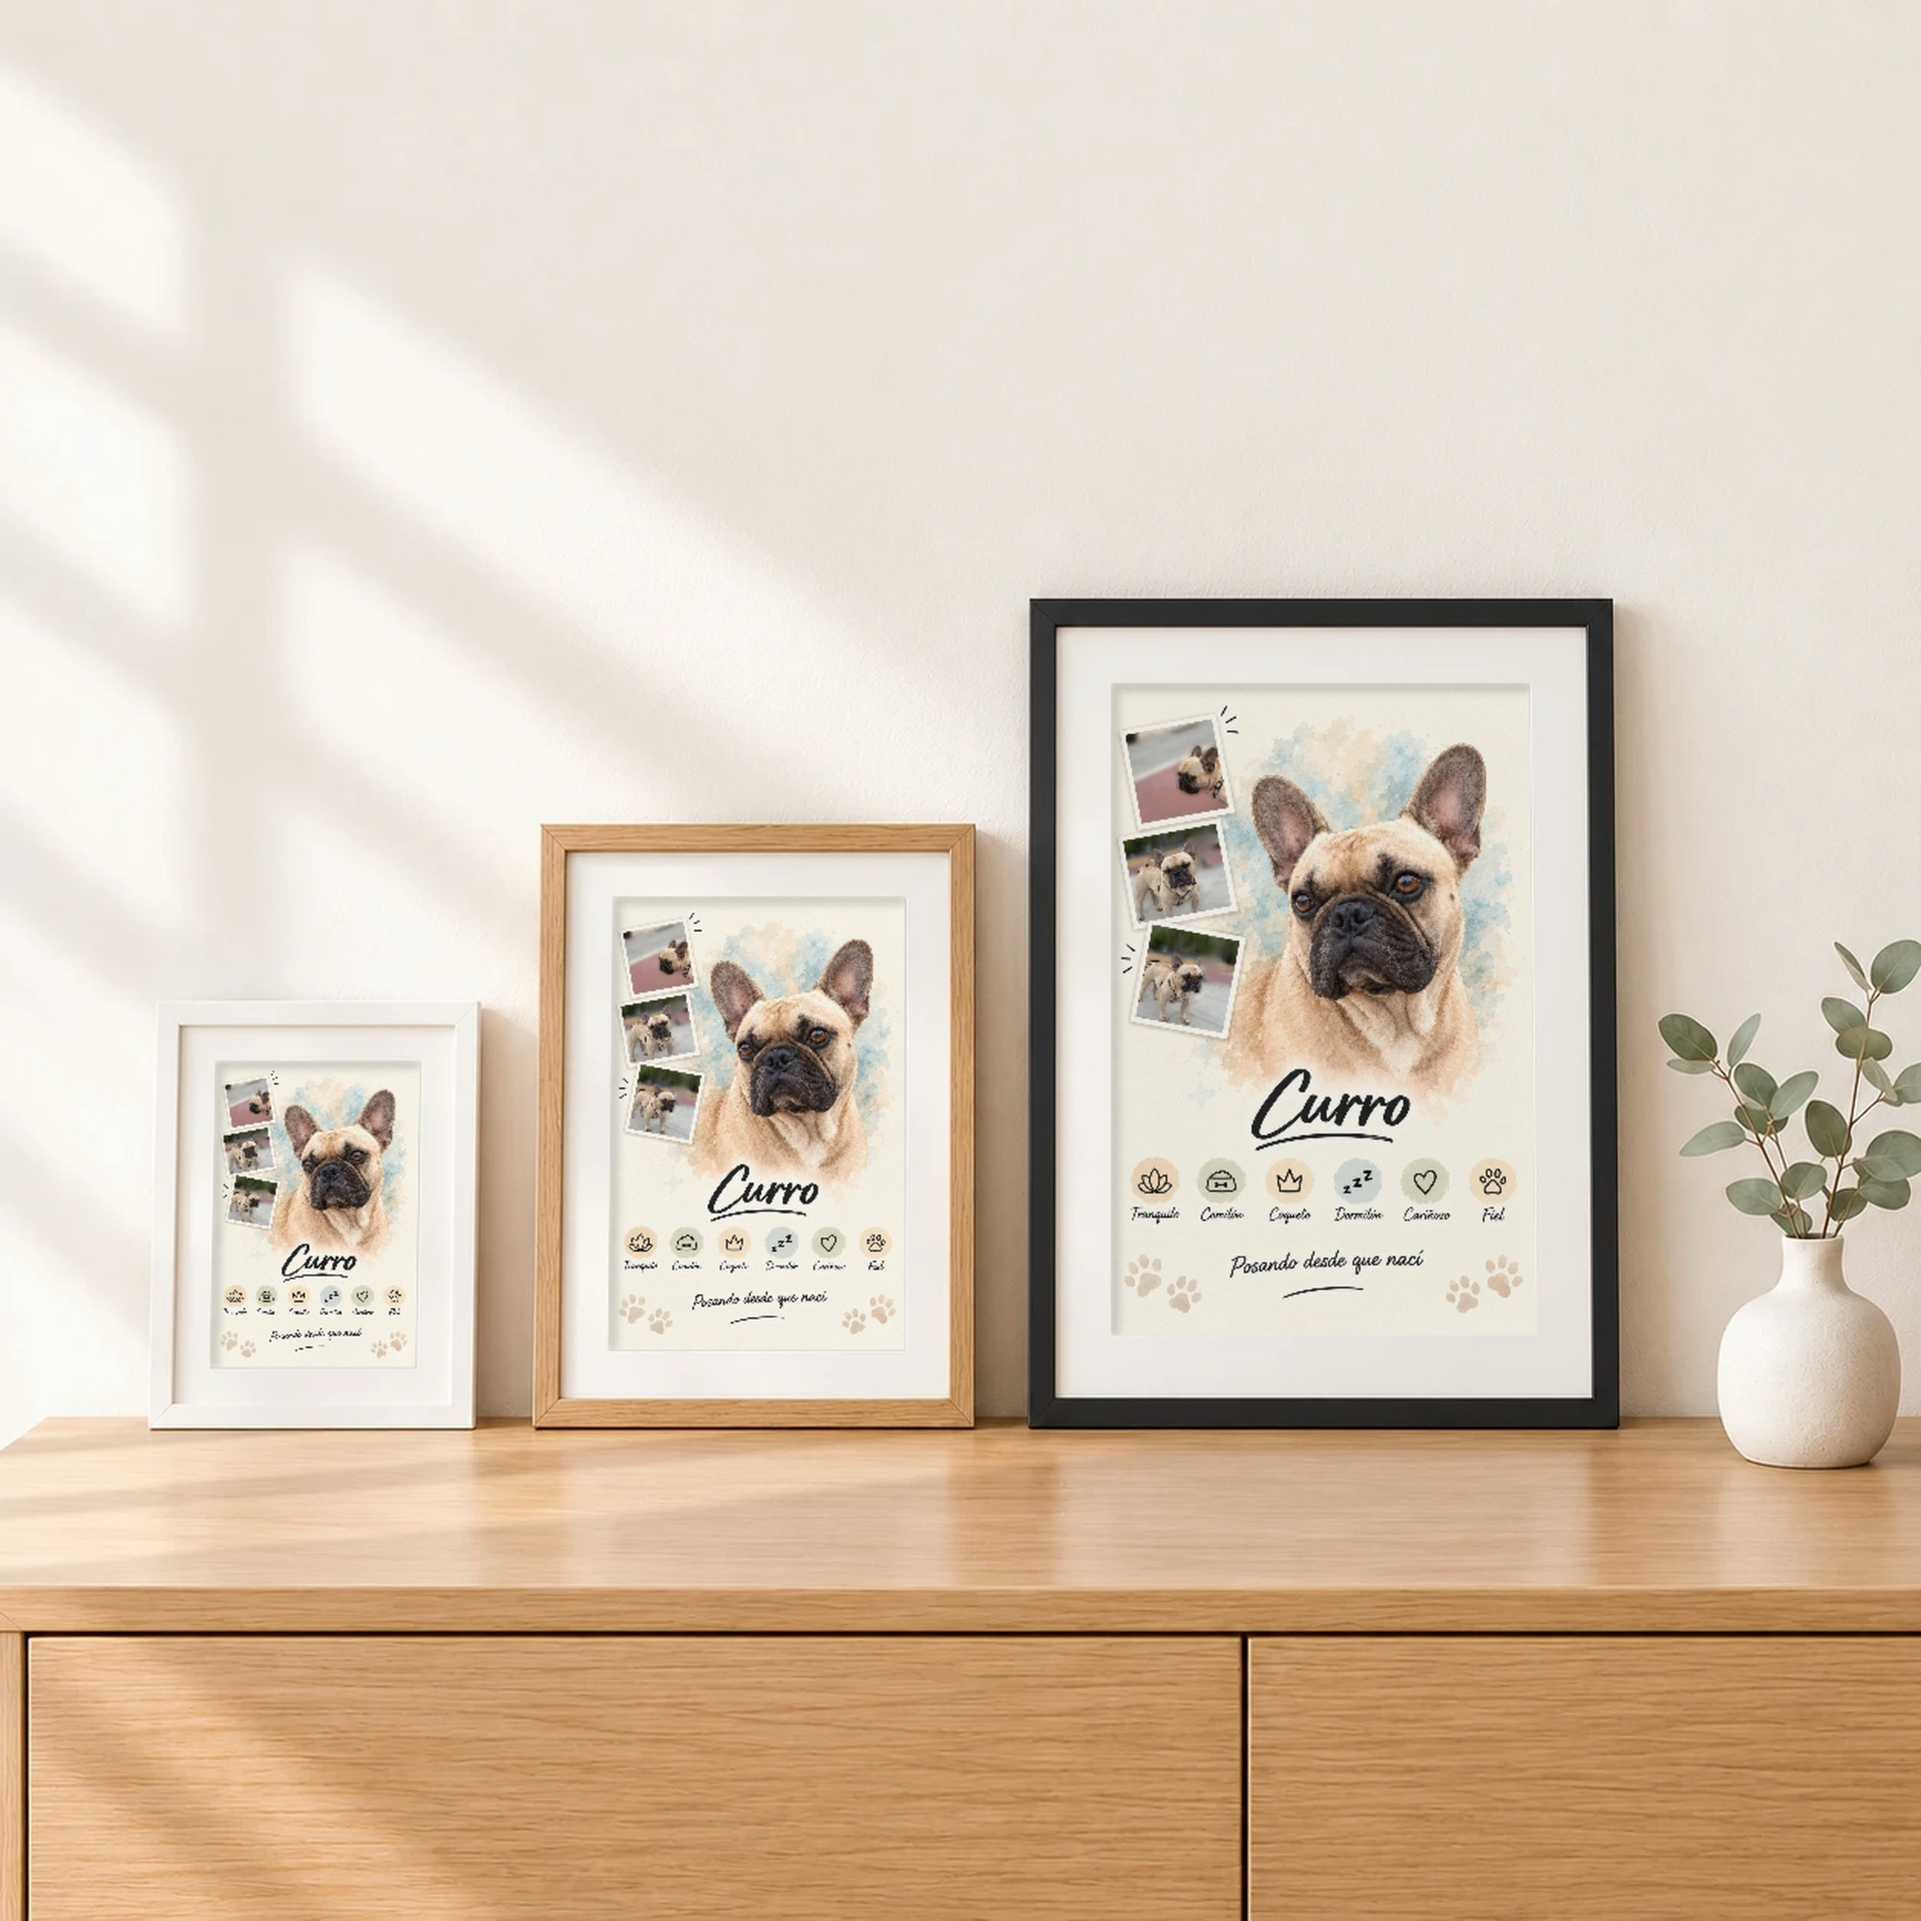
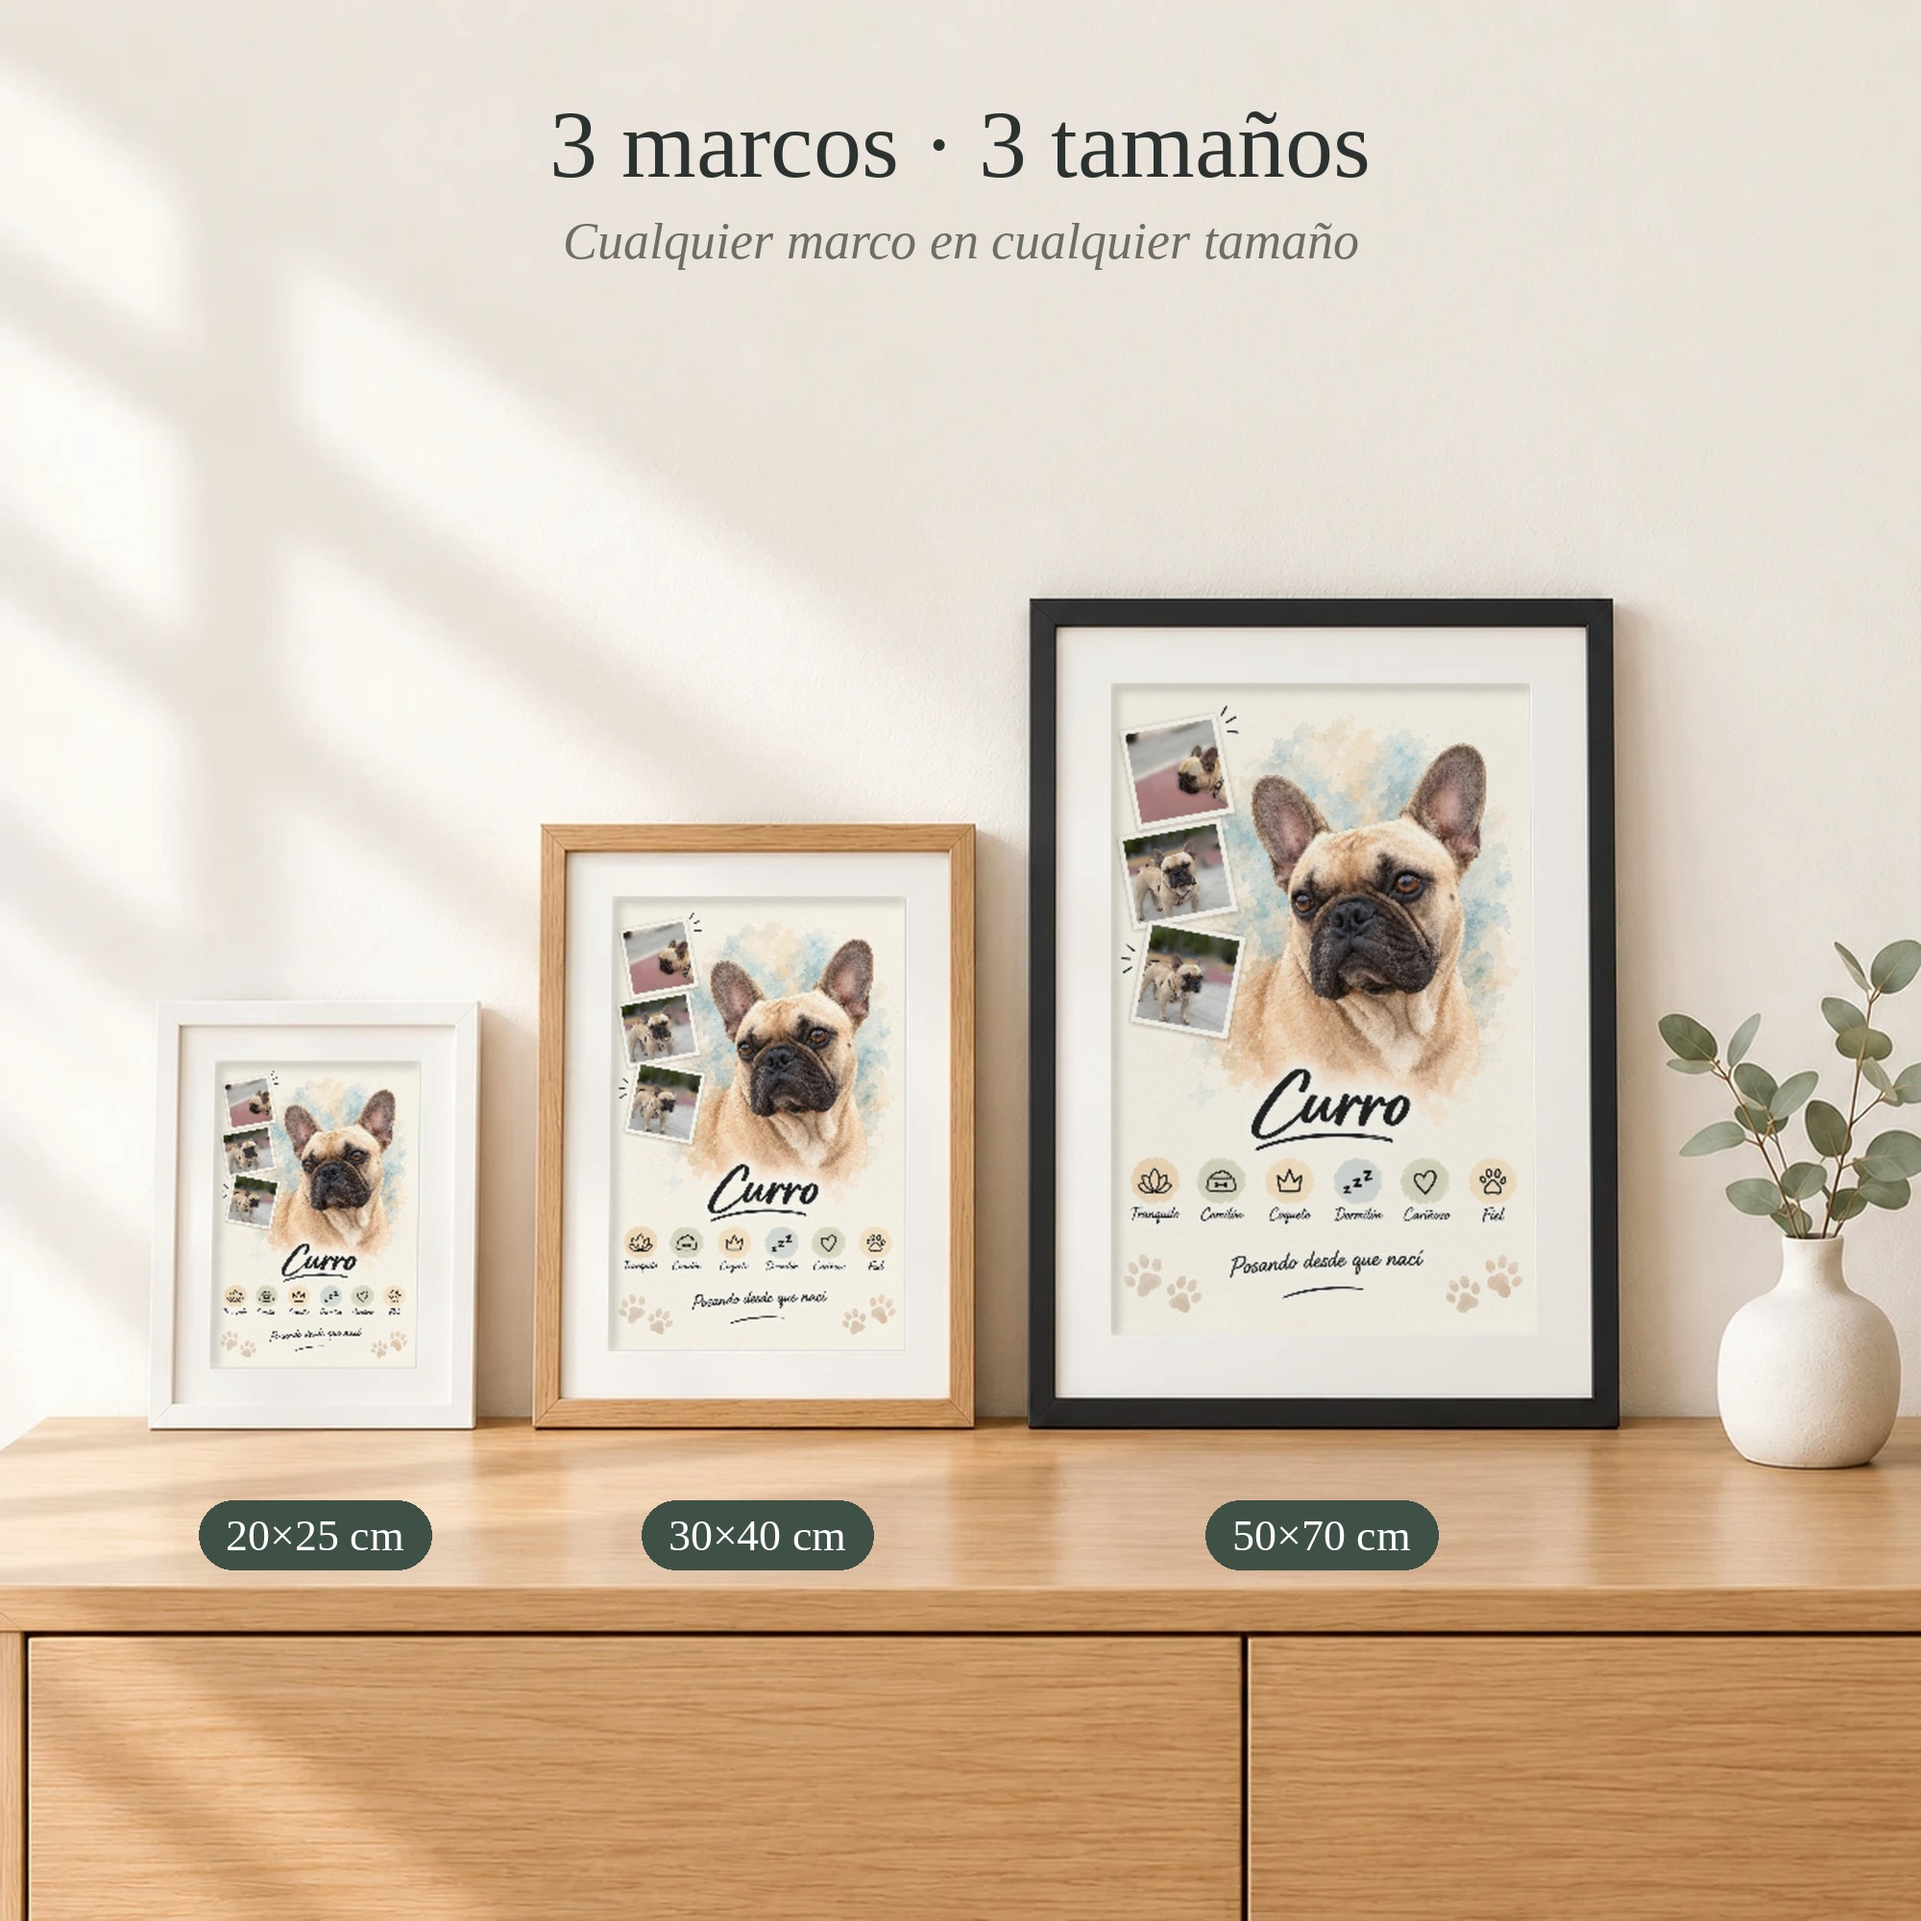
Fichas: carrusel final (frente, tres marcos rotulada, detalle, sus fotos, vista previa); fuera apoyado y marcos dibujados
Claude-Session: https://claude.ai/code/session_01EXxT3oYALMgVYQXs29BEaV

diff --git a/generador/web/escenas_ficha.py b/generador/web/escenas_ficha.py
@@ -1,11 +1,11 @@
-"""Fotos 1, 2, 3 y 5 del carrusel: el diseño real dentro del hueco gris de las 3 escenas de ChatGPT.
+"""Fotos 1, 2 y 3 del carrusel: el diseño real dentro del hueco gris de las 3 escenas de ChatGPT.
 
 Escenas en assets/ia/ficha/: escena-a-frente, escena-d-tres-marcos, escena-b-apoyado, escena-c-detalle (huecos grises 2:3).
 Por cada escena: máscara del gris → esquinas subpíxel → perspectiva → luz del gris aplicada al retrato →
 corrección de color común (pared hacia el #F6F2EC de la web) → 2000×2000.
 
 Uso: python3 generador/web/escenas_ficha.py [estilo ...]
-→ assets/web/ficha/<estilo>-1-frente.jpg, -2-tres-marcos.jpg, -3-apoyado.jpg, -5-detalle.jpg
+→ assets/web/ficha/<estilo>-1-frente.jpg, -2-tres-marcos.jpg, -3-detalle.jpg
 """
 import os, sys
 import cv2
@@ -18,7 +18,7 @@ sys.path.insert(0, os.path.dirname(__file__))
 from componer_marco import esquinas, afinar  # noqa: E402
 from ficha_producto import ARTICULOS, A  # noqa: E402
 
-ESCENAS = [('a-frente', '1-frente'), ('d-tres-marcos', '2-tres-marcos'), ('b-apoyado', '3-apoyado'), ('c-detalle', '5-detalle')]
+ESCENAS = [('a-frente', '1-frente'), ('d-tres-marcos', '2-tres-marcos'), ('c-detalle', '3-detalle')]
 PARED_WEB = np.array([246, 242, 236], np.float32)   # #F6F2EC
 LADO = 2000
 
@@ -100,6 +100,27 @@ def color_web(a, m):
     return np.clip(a * k, 0, 255)
 
 
+def rotular_marcos(im, escena):
+    """Escena de los 3 marcos: título en la pared y la medida bajo cada marco, con la tipografía de la web."""
+    from PIL import ImageDraw
+    from ficha_producto import F, SERIF, ITAL, TINTA, GRIS, SALVIA
+    a = np.asarray(Image.open(escena).convert('RGB')).astype(np.float32)
+    k = LADO / a.shape[1]
+    d = ImageDraw.Draw(im)
+    d.text((LADO / 2, 150), '3 marcos · 3 tamaños', font=F(SERIF, 100), fill=TINTA, anchor='mm')
+    d.text((LADO / 2, 250), 'Cualquier marco en cualquier tamaño', font=F(ITAL, 54), fill=GRIS, anchor='mm')
+    # de izquierda a derecha: el marco pequeño, el mediano y el grande
+    centros = sorted(ndimage.center_of_mass(m)[1] * k for m in huecos(a))
+    fondo = max(np.nonzero(m)[0].max() for m in huecos(a)) * k
+    for x, txt in zip(centros, ('20×25 cm', '30×40 cm', '50×70 cm')):
+        f = F(SERIF, 46)
+        w = d.textlength(txt, font=f) + 56
+        y = fondo + 175
+        d.rounded_rectangle((x - w / 2, y - 36, x + w / 2, y + 36), radius=36, fill=SALVIA)
+        d.text((x, y), txt, font=f, fill=(255, 255, 255), anchor='mm')
+    return im
+
+
 if __name__ == '__main__':
     out = A('web', 'ficha')
     os.makedirs(out, exist_ok=True)
@@ -108,6 +129,8 @@ if __name__ == '__main__':
         for esc, nombre in ESCENAS:
             img, m = encajar(A('ia', 'ficha', f'escena-{esc}.webp'), retrato)
             img = color_web(img, m)
-            Image.fromarray(img.astype(np.uint8)).resize((LADO, LADO), Image.LANCZOS).save(
-                os.path.join(out, f'{e}-{nombre}.jpg'), quality=92)
+            im = Image.fromarray(img.astype(np.uint8)).resize((LADO, LADO), Image.LANCZOS)
+            if esc == 'd-tres-marcos':
+                im = rotular_marcos(im, A('ia', 'ficha', f'escena-{esc}.webp'))
+            im.save(os.path.join(out, f'{e}-{nombre}.jpg'), quality=92)
         print(e, 'ok')

diff --git a/generador/web/ficha_producto.py b/generador/web/ficha_producto.py
@@ -1,14 +1,15 @@
 """Fotos cuadradas (2000×2000) para el carrusel de la ficha de producto, con la paleta de la web.
 
 Orden del carrusel de cada artículo:
-  1 frente · 2 tres marcos · 3 apoyado · 5 detalle → escenas de ChatGPT con el diseño (escenas_ficha.py)
-  4 «De sus fotos a su retrato» · 6 «Tu vista previa en 48 h» · 7 «3 marcos · 3 tamaños» (este script)
-  8 vídeo sin música ni letras
+  1 frente · 2 tres marcos (rotulada) · 3 detalle → escenas de ChatGPT con el diseño (escenas_ficha.py)
+  4 «De sus fotos a su retrato» · 5 «Tu vista previa en 48 h» (este script)
+  6 vídeo sin música ni letras
+  (marcos_tamanos queda como alternativa dibujada; no va en el carrusel)
 
 Uso:
   python3 generador/web/ficha_producto.py            (genera los 4 artículos)
   python3 generador/web/ficha_producto.py rosa       (solo uno)
-→ assets/web/ficha/<estilo>-4-sus-fotos.jpg, -6-vista-previa.jpg y -7-marcos-tamanos.jpg
+→ assets/web/ficha/<estilo>-4-sus-fotos.jpg y -5-vista-previa.jpg
 """
 import os, sys
 from PIL import Image, ImageDraw
@@ -151,6 +152,5 @@ if __name__ == '__main__':
     os.makedirs(out, exist_ok=True)
     for e in (sys.argv[1:] or ARTICULOS):
         sus_fotos(e, os.path.join(out, f'{e}-4-sus-fotos.jpg'))
-        marcos_tamanos(e, os.path.join(out, f'{e}-7-marcos-tamanos.jpg'))
-        vista_previa(e, os.path.join(out, f'{e}-6-vista-previa.jpg'))
+        vista_previa(e, os.path.join(out, f'{e}-5-vista-previa.jpg'))
         print(e, 'ok')
